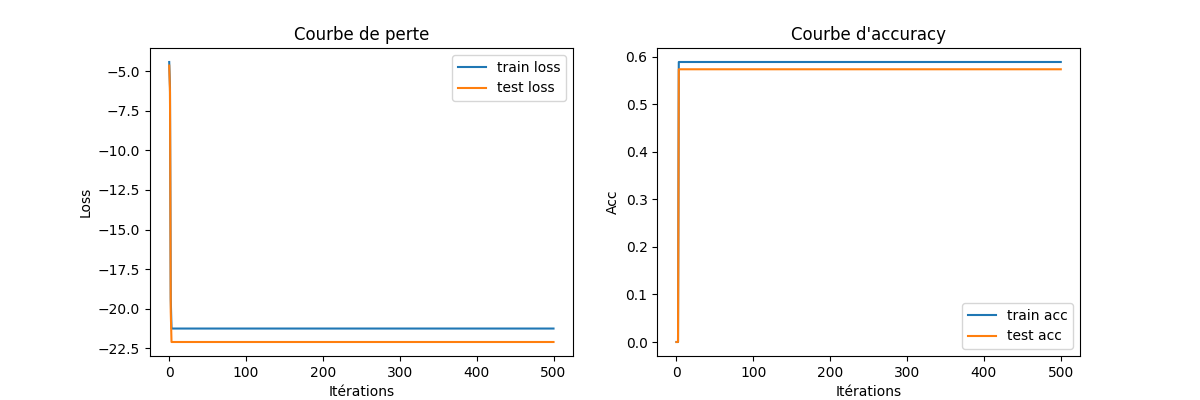
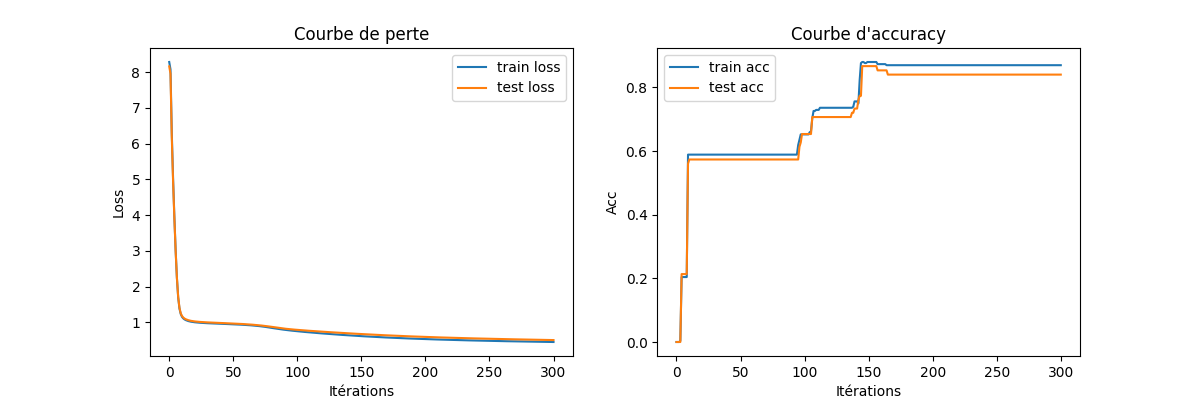
Adapdation de résaux pour permettre les multiclass

diff --git a/TIPE/AI_Model.py b/TIPE/AI_Model.py
@@ -89,66 +89,116 @@ class Neurone:
         print(f"Modèle chargé depuis {filename}")
 
 class Resaux:
-    def __init__(self, X=None, y=None, X_test=None, y_test=None, nb_neurone_couche=[1], learning_rate=0.1, nb_iter=1, path=None, treshold_fun= lambda x,y: x >= y, treshold_val=0.5):
+    def __init__(self, X=None, y=None, X_test=None, y_test=None, nb_neurone_couche=[1], learning_rate=0.1, nb_iter=1, path=None, treshold_val=0.5):
         """ Initialise le réseau de neurones """
-        nb_neurone_couche.reverse()
         self.path = path
         self.W = None
         self.b = None
-        self.nb_neurone_couche = nb_neurone_couche 
-        self.treshold_fun = treshold_fun
-        self.treshold_val = treshold_val
         self.L = []
         self.L_t = []  
         self.acc = []
         self.acc_t = []
+        self.treshold_val = treshold_val
+
+        self.nb_classes = nb_neurone_couche[-1]  # <= capture correcte AVANT toute inversion
+        self.nb_neurone_couche = nb_neurone_couche
 
         if X is not None and y is not None:
             self.W = [np.random.randn(nb_neurone_couche[0], X.shape[1])]
-            self.W = self.W+[np.random.randn(nb_neurone_couche[i], nb_neurone_couche[i-1]) for i in range(1, len(nb_neurone_couche))]
-            self.b = [np.random.randn(n, 1  ) for n in nb_neurone_couche]
+            self.W += [np.random.randn(nb_neurone_couche[i], nb_neurone_couche[i - 1]) for i in range(1, len(nb_neurone_couche))]
+            self.b = [np.random.randn(n, 1) for n in nb_neurone_couche]
             self.train(X, y, X_test, y_test, learning_rate, nb_iter)
+        
+    def softmax(self, z):
+        exp_z = np.exp(z - np.max(z, axis=0, keepdims=True))
+        return exp_z / np.sum(exp_z, axis=0, keepdims=True)
 
     def forward_propagation(self, X):
         """ Calcule la propagation avant du réseau de neurones """
         Z = [np.dot(self.W[0], X.T) + self.b[0]]
         A = [1 / (1 + np.exp(-Z[0]))]
-        for i in range(1, len(self.W)):
-            #print(f"W[{i}].shape", self.W[i].shape)
-            #print(f"A[{i-1}].shape", A[i-1].shape)
-            Z.append(self.W[i].dot(A[i-1]) + self.b[i])
-            A.append(1 / (1+np.exp(-Z[i])))
+        if self.nb_classes == 1:
+            for i in range(1, len(self.W)):
+                #print(f"W[{i}].shape", self.W[i].shape)
+                #print(f"A[{i-1}].shape", A[i-1].shape)
+                Z.append(self.W[i].dot(A[i-1]) + self.b[i])
+                A.append(1 / (1+np.exp(-Z[i])))
+        else:
+            for i in range(1, len(self.W) - 1):
+                Z.append(self.W[i].dot(A[i-1]) + self.b[i])
+                A.append(1 / (1+np.exp(-Z[i])))
+
+            # Dernière couche : softmax
+            Z_last = self.W[-1].dot(A[-1]) + self.b[-1]
+            A.append(self.softmax(Z_last))
         return A
     
     def back_propagation(self, A, X, y):
         """ Calcule les gradients de la fonction de perte par rapport aux poids et au biais """
         m = X.shape[0]
-        y = y.reshape(1, -1)  # y doit être (1, m)
-
-        dZ = A[-1] - y  # (1, m)
         dW = []
         db = []
+        if self.nb_classes == 1:
+            y = y.reshape(1, -1)  # y doit être (1, m)
 
-        for i in reversed(range(len(self.W))):
-            A_prev = A[i - 1] if i > 0 else X.T  # (n_l-1, m)
+            dZ = A[-1] - y  # (1, m)
 
-            dW_i = np.dot(dZ, A_prev.T) / m
-            db_i = np.sum(dZ, axis=1, keepdims=True) / m
+            for i in reversed(range(len(self.W))):
+                A_prev = A[i - 1] if i > 0 else X.T  # (n_l-1, m)
 
-            dW.insert(0, dW_i)
-            db.insert(0, db_i)
+                dW_i = np.dot(dZ, A_prev.T) / m
+                db_i = np.sum(dZ, axis=1, keepdims=True) / m
 
-            if i > 0:
-                dA_prev = np.dot(self.W[i].T, dZ)
-                dZ = dA_prev * A[i - 1] * (1 - A[i - 1])  # sigmoid prime
+                dW.insert(0, dW_i)
+                db.insert(0, db_i)
+
+                if i > 0:
+                    dA_prev = np.dot(self.W[i].T, dZ)
+                    dZ = dA_prev * A[i - 1] * (1 - A[i - 1])  # sigmoid prime
+        else:
+            y_one_hot = np.zeros_like(A[-1])
+            y_one_hot[y, np.arange(m)] = 1
+
+            dZ = A[-1] - y_one_hot
+
+            for i in reversed(range(len(self.W))):
+                A_prev = A[i - 1] if i > 0 else X.T
+
+                dW_i = np.dot(dZ, A_prev.T) / m
+                db_i = np.sum(dZ, axis=1, keepdims=True) / m
+
+                dW.insert(0, dW_i)
+                db.insert(0, db_i)
+
+                if i > 0:
+                    dA_prev = np.dot(self.W[i].T, dZ)
+                    dZ = dA_prev * A[i - 1] * (1 - A[i - 1])
 
         return dW, db
 
+    def cross_entropy_loss(self, A, y):
+        m = y.shape[0]
+        probs = np.clip(A[-1], 1e-15, 1 - 1e-15)
+
+        if self.nb_classes != probs.shape[0]:
+            raise ValueError(f"Nombre de classes incohérent : self.nb_classes={self.nb_classes}, probs.shape={probs.shape}")
+
+        y_one_hot = np.zeros_like(probs)
+        y_one_hot[y, np.arange(m)] = 1
+
+        return -np.sum(y_one_hot * np.log(probs)) / m
+    
     def log_loss(self, A, y):
-        """ Calcule la fonction de perte logistique """
         epsilon = 1e-15
         A = np.clip(A[-1], epsilon, 1 - epsilon)
         return -np.mean(y * np.log(A) + (1 - y) * np.log(1 - A))
+
+    def loss(self, A, y):
+        """ Calcule la fonction de perte logistique """
+        if self.nb_classes == 1:
+            return self.log_loss(A, y)
+        else:
+            return self.cross_entropy_loss(A, y)
 
     def update(self, dW, db, learning_rate):
         """ Met à jour les poids et le biais """
@@ -163,9 +213,18 @@ class Resaux:
             self.b[i] -= learning_rate * db[i]
     
     def predict(self, X):
-        """ Prédiction sur de nouvelles données """
+        """Prédiction sur de nouvelles données, toujours en (n_samples, n_features)."""
+        # Cas vecteur 1D (un seul exemple) → on le passe en shape (1, n_features)
+        if X.ndim == 1:
+            X = X.reshape(1, -1)
+
         A = self.forward_propagation(X)
-        return A[-1].flatten()
+        out = A[-1]
+        if self.nb_classes == 1:
+            return (out.flatten() >= self.treshold_val).astype(int)
+        else:
+            # Multi-classes : out.shape == (nb_classes, n_samples)
+            return np.argmax(out, axis=0)
 
     def train(self, X, y, X_test, y_test, learning_rate=1e-2, nb_iter=10000, partialsteps=10):
         """ Entraîne le modèle sur les données d'entraînement """
@@ -173,16 +232,27 @@ class Resaux:
             A = self.forward_propagation(X)
 
             if i % partialsteps == 0:
-                self.L.append(self.log_loss(A, y))
-                self.L_t.append(self.log_loss(self.forward_propagation(X_test), y_test))
-                if self.treshold_val is not None:
-                    self.acc.append(accuracy_score(self.treshold_fun(y, self.treshold_val) , self.treshold_fun(self.predict(X).flatten(), self.treshold_val)))
-                    self.acc_t.append(accuracy_score(self.treshold_fun(y_test, self.treshold_val) , self.treshold_fun(self.predict(X_test), self.treshold_val)))
+                self.L.append(self.loss(A, y))
+                self.L_t.append(self.loss(self.forward_propagation(X_test), y_test))
+                if self.nb_classes == 1:
+                    # Problème binaire 
+                    y_true_train_bin = (y >= self.treshold_val).astype(int)
+                    y_true_test_bin  = (y_test >= self.treshold_val).astype(int)
+                    y_pred_train     = (self.predict(X) >= self.treshold_val).astype(int)
+                    y_pred_test      = (self.predict(X_test) >= self.treshold_val).astype(int)
+
+                    self.acc.append(accuracy_score(y_true_train_bin, y_pred_train))
+                    self.acc_t.append(accuracy_score(y_true_test_bin,  y_pred_test))
                 else:
-                    predict_train = self.predict(X).flatten()
-                    predict_test = self.predict(X_test).flatten()
-                    self.acc.append(accuracy_score(self.treshold_fun(predict_train, y), self.treshold_fun(y, y)))
-                    self.acc_t.append(accuracy_score(self.treshold_fun(predict_test, y_test), self.treshold_fun(y_test, y_test)))
+                    # Problème multi-classes
+                    y_pred_train = self.predict(X)
+                    y_pred_test  = self.predict(X_test)
+                    y_true_train = y.flatten().astype(int)
+                    y_true_test  = y_test.flatten().astype(int)
+
+                    self.acc.append(accuracy_score(y_true_train, y_pred_train))
+                    self.acc_t.append(accuracy_score(y_true_test,  y_pred_test))
+
             if i % (partialsteps*100) == 0:
                 if self.path is not None:
                     self.save(self.path, bool_p=False)
@@ -201,7 +271,9 @@ class Resaux:
                 'acc': self.acc,
                 'acc_t': self.acc_t,
                 'nb_neurone_couche': self.nb_neurone_couche,
-                'path': self.path
+                'path': self.path,
+                'threshold_val': self.treshold_val,
+                'nb_classes': self.nb_classes,
             }, f)
         courbe_perf(self, self.path.replace(".pkl", ".png").replace("save", "curve"), bool_p)
         if bool_p:
@@ -219,6 +291,8 @@ class Resaux:
             self.acc_t = data['acc_t']
             self.nb_neurone_couche = data['nb_neurone_couche']
             self.path = data['path']
+            self.treshold_val = data['threshold_val']
+            self.nb_classes = data['nb_classes']
         print(f"Modèle chargé depuis {filename}")
 
 
@@ -366,14 +440,11 @@ def preprocecing_user(df, on=None):
 
     return intern(df)
 
-def model_init(path_n, X_train, y_train, X_test, y_test, format, path, treshold_fun=None, treshold_val=None):
+def model_init(path_n, X_train, y_train, X_test, y_test, format, path, treshold_val=None):
     """ Initialise le modèle """
     y_train = y_train.flatten()
     y_test = y_test.flatten()
-    if treshold_fun is None:
-        model = Resaux(X_train, y_train, X_test, y_test, format, 1e-2, 1, path)
-    else:
-        model = Resaux(X_train, y_train, X_test, y_test, format, 1e-2, 1, path, treshold_fun=treshold_fun, treshold_val=treshold_val)   
+    model = Resaux(X_train, y_train, X_test, y_test, format, 1e-2, 1, path, treshold_val=treshold_val)
     model.save(path_n)
     return model  
 
@@ -418,25 +489,42 @@ def analyse_post_process(X_train, y_train, X_test, y_test):
 
 def affichage_perf(X_train, y_train, X_test, y_test, model):
     """ Affiche les performances du modèle """
-    y_pred_train = model.predict(X_train).flatten()
-    y_pred_test = model.predict(X_test).flatten()
 
-    initial_pred_train = model.acc[0]
-    initial_pred_test = model.acc_t[0]
-    print("Initial Train Accuracy:", initial_pred_train)
-    print("Initial Test Accuracy:", initial_pred_test)
+    predict_train = model.predict(X_train).flatten()
+    predict_test = model.predict(X_test).flatten()
 
+    # Affichage des métriques initiales
+    print("Initial Train Accuracy:", model.acc[0])
+    print("Initial Test Accuracy:", model.acc_t[0])
 
-    print("Train Accuracy:", accuracy_score(y_train >= 0.5, y_pred_train >= 0.5))
-    print("Test Accuracy:", accuracy_score(y_test >= 0.5, y_pred_test >= 0.5))
+    # Sélection de la bonne fonction de seuil
+    if model.treshold_val is None:
+        y_pred_train_class = predict_train
+        y_pred_test_class = predict_test
+        y_train_class = y_train.flatten()
+        y_test_class = y_test.flatten()
+    else:
+        y_pred_train_class = predict_train 
+        y_pred_test_class = predict_test 
+        y_train_class = y_train.flatten() >= model.treshold_val
+        y_test_class = y_test.flatten() >= model.treshold_val
 
-    # Additional metrics
-    print("Train F1 Score:", f1_score(y_train >= 0.5, y_pred_train >= 0.5, average='weighted', zero_division= np.nan))
-    print("Test F1 Score:", f1_score(y_test >= 0.5, y_pred_test >= 0.5, average='weighted', zero_division= np.nan))
-    print("Train Precision:", precision_score(y_train >= 0.5, y_pred_train >= 0.5, average='weighted', zero_division= np.nan))
-    print("Test Precision:", precision_score(y_test >= 0.5, y_pred_test >= 0.5, average='weighted', zero_division= np.nan))
-    print("Train Recall:", recall_score(y_train >= 0.5, y_pred_train >= 0.5, average='weighted', zero_division= np.nan))
-    print("Test Recall:", recall_score(y_test >= 0.5, y_pred_test >= 0.5, average='weighted', zero_division= np.nan))
+    try: 
+        # Affichage des métriques
+        print("Train Accuracy:", accuracy_score(y_train_class, y_pred_train_class))
+        print("Test Accuracy:", accuracy_score(y_test_class, y_pred_test_class))
+
+        print("Train F1 Score:", f1_score(y_train_class, y_pred_train_class, average='weighted', zero_division=np.nan))
+        print("Test F1 Score:", f1_score(y_test_class, y_pred_test_class, average='weighted', zero_division=np.nan))
+
+        print("Train Precision:", precision_score(y_train_class, y_pred_train_class, average='weighted', zero_division=np.nan))
+        print("Test Precision:", precision_score(y_test_class, y_pred_test_class, average='weighted', zero_division=np.nan))
+
+        print("Train Recall:", recall_score(y_train_class, y_pred_train_class, average='weighted', zero_division=np.nan))
+        print("Test Recall:", recall_score(y_test_class, y_pred_test_class, average='weighted', zero_division=np.nan))
+    except Exception as e : 
+        print(f"Train shapes mismatch: {y_pred_train_class.shape} vs {y_train_class.shape}")
+        print(f"Test shapes mismatch: {y_pred_test_class.shape} vs {y_test_class.shape}")
 
 def courbe_perf(sleep, path, bool_p=True):
     """ Met les courbes de perte et d'accuracy dans un fichier """
@@ -491,7 +579,7 @@ def main_quality_of_sleep(bool_c, bool_t, path_n, path_c):
     
     # Train the model
     if bool_c:
-        sleep = model_init(path_n, X_train, y_train, X_test, y_test, [1,64,32,16,1], path_n)
+        sleep = model_init(path_n, X_train, y_train, X_test, y_test, [128,64,32,16,1], path_n, treshold_val=0.5)
     else: 
         sleep = model_charge(path_n)
 
@@ -500,7 +588,7 @@ def main_quality_of_sleep(bool_c, bool_t, path_n, path_c):
 
     # Ami évaluation affichage
 
-    ami_res = round(sleep.predict(np.array(ami))[0], 2)
+    ami_res = sleep.predict(np.array(ami).reshape(1,-1))
     print(f"mons amis: {ami_res}") 
 
     # affichage des performances
@@ -534,22 +622,18 @@ def main_sleep_trouble(boul_c, bool_t, path_n, path_c):
     # architecture = [1,30,75,500,1000,500,100,75,30,1] atteint les 0.8 
     # architecture = [1,2000,1500,1000,500,400,100,75,30,1] atteint les 0.85 mais pas stable et long -> set trop petit pour le nombre de neurones
     # architecture = [1, 64, 32, 16, 1] se stabilise à 0.5 sous apprentissage
-    def compare_ranges(arr1, arr2):
-        # Broadcasting pour comparer chaque x de arr1 à chaque y de arr2
-        x = arr1[:, None]  # shape (n, 1)
-        y = arr2[None, :]  # shape (1, m)
-        return (x >= y - 1) & (x <= y)
+    
     if boul_c:
-        sleep = model_init(path_n, X_train, y_train, X_test, y_test, [1, 256, 128, 64, 32, 1], path_n, treshold_fun=compare_ranges, treshold_val=None)
+        sleep = model_init(path_n, X_train, y_train, X_test, y_test, [256, 128, 64, 32, 16, 4], path_n, treshold_val=None)
     else: 
         sleep = model_charge(path_n)
 
     if bool_t:
-        sleep = model_train(X_train, y_train, X_test, y_test, sleep, path_n, iteration=5000, precision=1e-2)
+        sleep = model_train(X_train, y_train, X_test, y_test, sleep, path_n, iteration=1000, precision=1e-2)
 
     # Ami évaluation affichage
     ami = [0,0.3,0.6,0.47,0.8,0.11,4,0,0.88,0.89,0.5]
-    print(f"ami: {round(sleep.predict(np.array(ami))[0], 2)}")
+    print(f"ami: {(sleep.predict(np.array(ami).reshape(1,-1)))}")
 
     # affichage des performances
 
@@ -562,5 +646,5 @@ def main_sleep_trouble(boul_c, bool_t, path_n, path_c):
 if __name__ == "__main__":
     # Main function launcher with arguments
     main_quality_of_sleep(False, False, "TIPE/Saves/save_sleep_quality.pkl", "TIPE/Saves/curve_sleep_quality.png")
-    main_sleep_trouble(True, True, "TIPE/Saves/save_sleep_trouble.pkl", "TIPE/Saves/curve_sleep_trouble.png")
+    main_sleep_trouble(False, False, "TIPE/Saves/save_sleep_trouble.pkl", "TIPE/Saves/curve_sleep_trouble.png")
   
